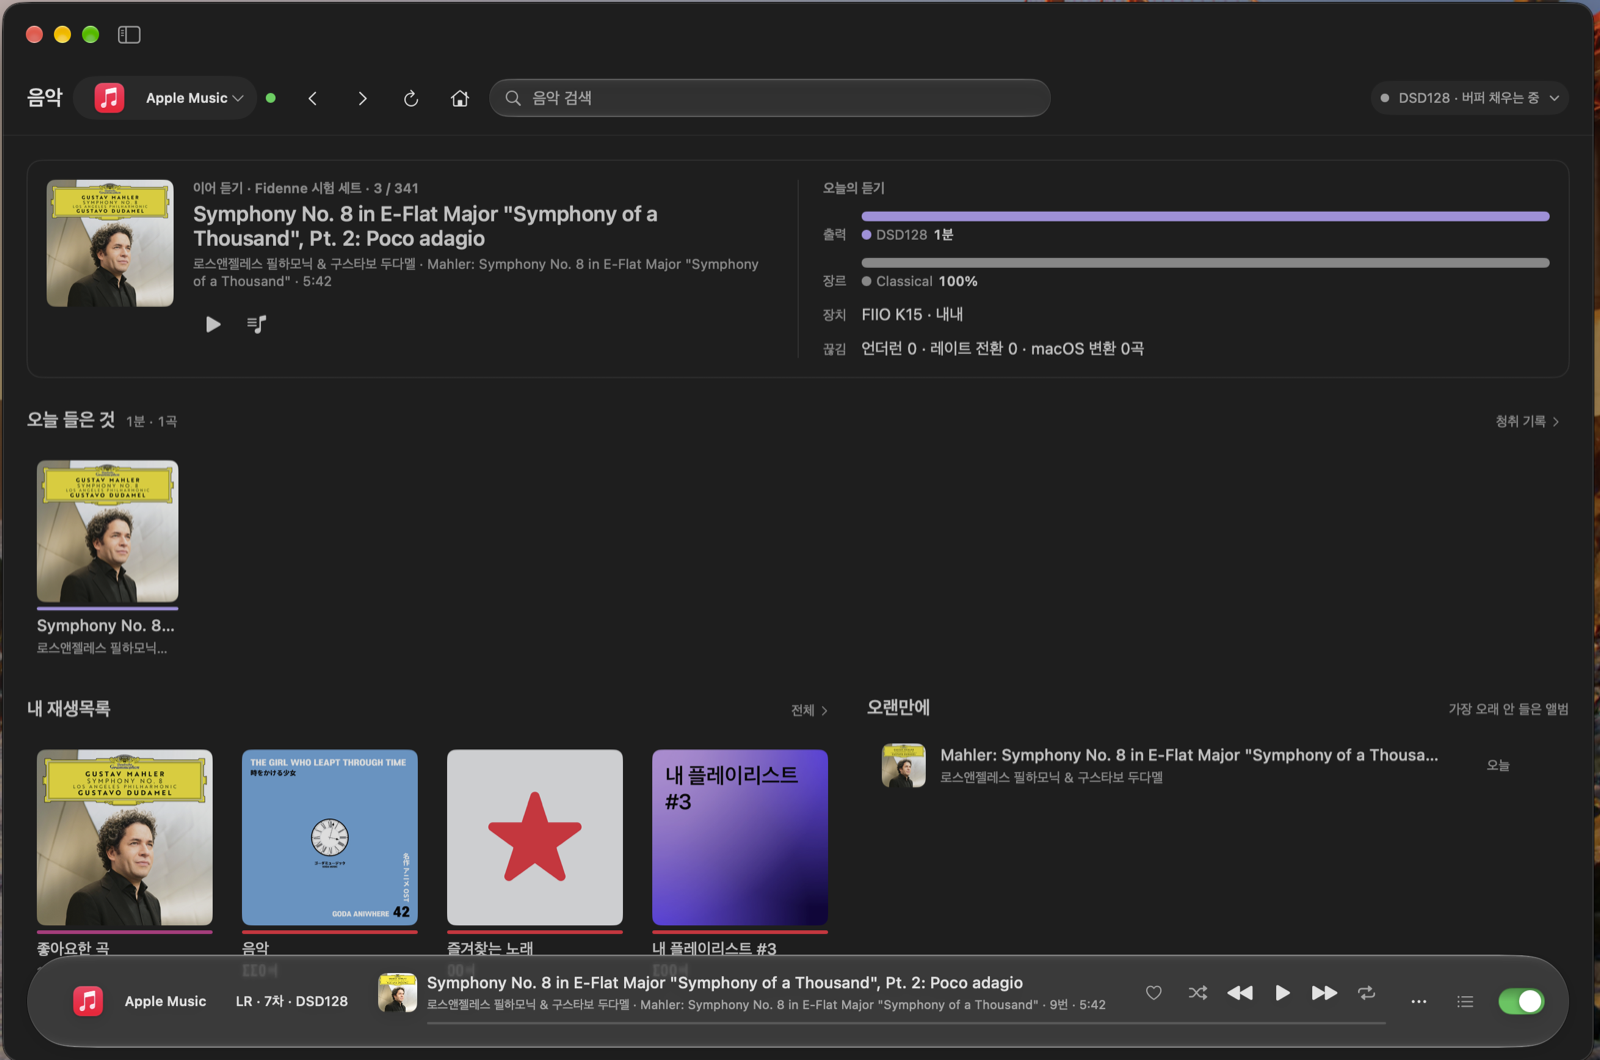
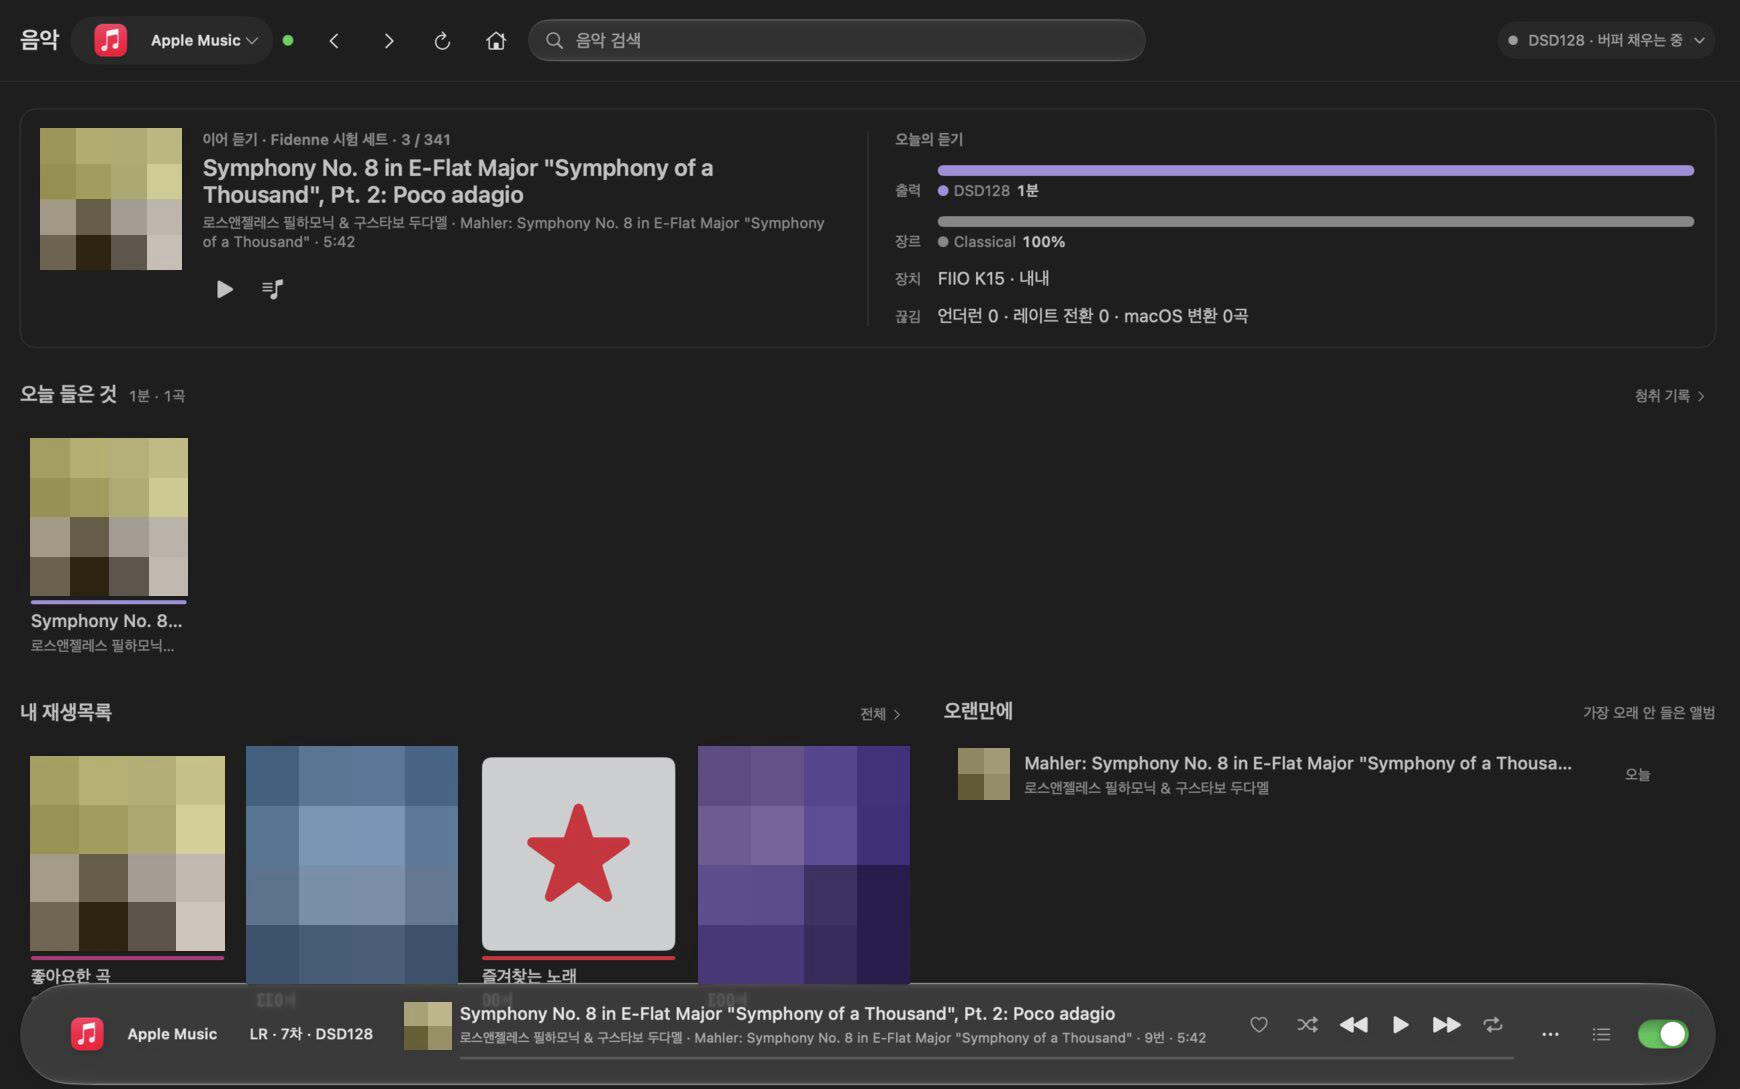
README picture: album artwork mosaicked [skip ci]

diff --git a/README.md b/README.md
@@ -18,7 +18,7 @@
 <br>
 
 <p align="center">
-  <img src="/docs/user/images/fidenne-home.png" width="860" alt="Fidenne 음악 화면 — 지금 듣는 곡, 오늘의 청취, 재생목록, 하단 재생 막대">
+  <img src="/docs/user/images/fidenne-home.png" width="860" alt="Fidenne 음악 화면 — 지금 듣는 곡, 오늘의 청취, 재생목록, 하단 재생 막대 (앨범 표지는 모자이크)">
 </p>
 
 <br>
